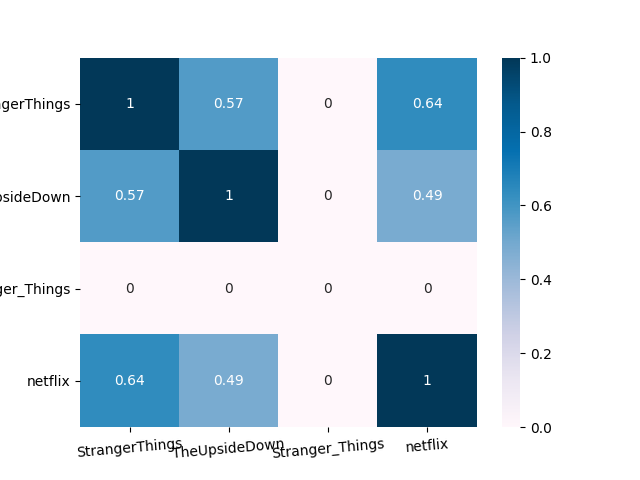
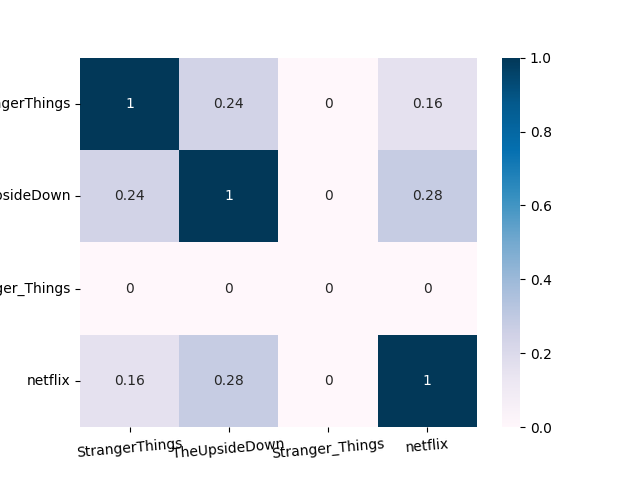
migrate to python3. Including dependency packages and syntax.

diff --git a/get_reddit_data.py b/get_reddit_data.py
@@ -9,11 +9,10 @@ import sys
 import time
 from datetime import datetime
 from create_table import *
-from multiprocessing.dummy import Pool
 
-
-HOT_CNT = 100
-COMMENTS_THRESHOLD = 500
+HOT_CNT = 50
+# the smaller, the faster, but with less prediction accuracy
+COMMENTS_THRESHOLD = 50
 
 old_time = time.time()
 
@@ -30,7 +29,7 @@ reddit = praw.Reddit(client_id='qrbjP0JQu3Uo1Q',
                      user_agent = 'doe nlp usage', # user_agent is just a description
                      username='sisyphus_bot',
                      password='Sympler1~') 
-print("I am reddit bot {0}".format(reddit.user.me()))
+print(("I am reddit bot {0}".format(reddit.user.me())))
 
 
 # chosen_subreddits = [ 'Fitness', 'java', 'python','datascience', 'MachineLearning']
@@ -38,7 +37,7 @@ chosen_subreddits = ['StrangerThings', 'TheUpsideDown', 'Stranger_Things', 'netf
 for i in range(len(chosen_subreddits)):
     subreddit = reddit.subreddit(chosen_subreddits[i])
     db_tuple = (subreddit.id, chosen_subreddits[i], subreddit.title, int(subreddit.created), 0)
-    print db_tuple
+    print (db_tuple)
     sql_query = """INSERT INTO main_subreddits VALUES (%s, %s, %s, %s, %s)"""
     cur.execute(sql_query, db_tuple) # use tuple to insert
 
@@ -50,8 +49,8 @@ pull_df = pd.read_sql("SELECT * FROM main_subreddits", con) # <clddlass 'pandas.
 # Parse subreddits-->submissions-->comments and save to SQL
 for i in range(pull_df.shape[0]):
     t_start = time.time()
-    print ("Subreddit " + str(i + 1) + " / " + 
-    	   str(pull_df.shape[0]) + ": " + pull_df['title'][i])
+    print(("Subreddit " + str(i + 1) + " / " + 
+    	   str(pull_df.shape[0]) + ": " + pull_df['title'][i]))
     # deal with subreddit
     subreddit = reddit.subreddit(pull_df['name'][i])
     subreddit_id = pull_df['id'][i]
@@ -60,7 +59,7 @@ for i in range(pull_df.shape[0]):
     # deal with submissions
     for submission in subreddit.hot(limit=HOT_CNT): # this step connects the internet?
         submissions_cnt += 1
-        submission.comments.replace_more(limit = 0); # For deep comments
+        submission.comments.replace_more(limit = 0) # For deep comments
         submission_tuple = (submission.id, subreddit_id, submission.selftext, int(submission.created))
         submission_query =  "INSERT INTO main_submissions VALUES (%s, %s, %s, %s)"
         cur.execute(submission_query, submission_tuple)
@@ -68,10 +67,10 @@ for i in range(pull_df.shape[0]):
         comment_tuples = []
         comment_list = submission.comments.list()
         for comment in comment_list:
-            comment_tuples.append((comment.id , subreddit_id, 
-            					   submission.id, comment.body))
-        if len(comment_tuples) > 0: # smart, insert in one sentense
-            comment_str = ','.join(cur.mogrify("(%s,%s,%s,%s)", x) for x in comment_tuples)
+            comment_tuples.append((comment.id , subreddit_id,
+            					   submission.id, str(comment.body)))
+        if len(comment_tuples) > 0:
+            comment_str = b','.join(cur.mogrify("(%s,%s,%s,%s)", x) for x in comment_tuples).decode()
             cur.execute("INSERT INTO main_comments VALUES " + comment_str)
 
         comment_count += len(comment_list)
@@ -80,18 +79,18 @@ for i in range(pull_df.shape[0]):
         sys.stdout.flush()
         if comment_count > COMMENTS_THRESHOLD: break
     
-    print '  Runtime: ' + str(int(time.time() - t_start)) + "s"
-    print '-' * 50
+    print(('  Runtime: ' + str(int(time.time() - t_start)) + "s"))
+    print(('-' * 50))
 
 #Check the total amount of submissions and comments downloaded. It's rolling.
 all_comments = pd.read_sql("SELECT * FROM main_comments", con)
 all_submissions = pd.read_sql("SELECT * FROM main_submissions", con)
-print "Total number of comments downloaded:", all_comments.shape[0]
-print "Total number of submissions downloaded:", all_submissions.shape[0]
+print(("Total number of comments downloaded:", all_comments.shape[0]))
+print(("Total number of submissions downloaded:", all_submissions.shape[0]))
 
 
 con.commit()
 cur.close()
 con.close()
 
-print 'Runtime: ' + str(int(time.time() - old_time)) + "s"
+print(('Runtime: ' + str(int(time.time() - old_time)) + "s"))

diff --git a/submissions_analysis.py b/submissions_analysis.py
@@ -25,7 +25,6 @@ import re
 import numpy as np
 import nltk
 import matplotlib
-matplotlib.use('TkAgg')
 import matplotlib.pyplot as plt
 import time
 
@@ -97,9 +96,9 @@ def gen_data(all_subreddits):
 		# create lookup table --> submission_id : time
 		submission_query = "SELECT id, created FROM main_submissions WHERE subreddit_id = '%s'" % subreddit_id
 		submission_frame = pd.read_sql(submission_query, con)
-		submission_time_lookup.update(dict(zip(submission_frame.id, submission_frame.created)))
+		submission_time_lookup.update(dict(list(zip(submission_frame.id, submission_frame.created))))
 	if DEBUG == 2:
-		print "data keys: ", data.keys()
+		print("data keys: ", list(data.keys()))
 	return data, submission_time_lookup
 
 def gen_docs(data, docs, submissions, 
@@ -113,9 +112,9 @@ def gen_docs(data, docs, submissions,
 	four layers: subreddit --> submission --> comments --> token
 	'''
 	if DEBUG == 2:
-		print "submission id and length relations:"
-	for subreddit, inner in data.items():
-		for submission_id, comments in inner.items():
+		print("submission id and length relations:")
+	for subreddit, inner in list(data.items()):
+		for submission_id, comments in list(inner.items()):
 			tokens_stemed = []
 			for comment in comments:
 				tokens = WordPunctTokenizer().tokenize(comment)
@@ -139,7 +138,7 @@ def gen_docs(data, docs, submissions,
 										if alpha_filter(t) and t.lower() not in stopwords]) 
 			# vocab.extend(gen_vocabulary(tokens_stemed, VOCAB_CNT))
 			if DEBUG == 2:
-				print "{0} has {1} tokens".format(submission_id, len(tokens_stemed))
+				print("{0} has {1} tokens".format(submission_id, len(tokens_stemed)))
 			submissions.append((submission_id, len(tokens_stemed)))
 			docs.append(" ".join(tokens_stemed))
 
@@ -153,7 +152,7 @@ def addon_docs(submission_time_lookup, QUESTION):
 	submission_time_lookup[0] = int(time.time())
 	gen_docs(add_on, docs, submissions)
 	if DEBUG == 2:
-		print 'there are {0} submissions and {1} docs\n'.format(len(submissions), len(docs))
+		print('there are {0} submissions and {1} docs\n'.format(len(submissions), len(docs)))
 
 def gen_stats(docs):
 	'''
@@ -185,22 +184,22 @@ def match(stats, QUESTION):
 	print ("|---id---|-length-|--score-|---time-------|--url------------")
 	if DEBUG:
 		for i in nlp_related:
-			print i + ['url: redd.it/{0}'.format(i[0])]
-		print "+++++finished select nlp score\++++++\n"
+			print(i + ['url: redd.it/{0}'.format(i[0])])
+		print("+++++finished select nlp score\++++++\n")
 	length_related = sorted(nlp_related, key = lambda x: -int(x[1]))[:LENGTH_CRITERIA]
 	if DEBUG:
 		for i in length_related:
-			print i + ['url: redd.it/{0}'.format(i[0])]
-		print "+++++finished select length+++++\n"
+			print(i + ['url: redd.it/{0}'.format(i[0])])
+		print("+++++finished select length+++++\n")
 	time_related = sorted(length_related, key = lambda x: -int(x[-1]))[:TIME_CRITERIA]
 	if DEBUG:	
 		for i in time_related:
-			print i + ['url: redd.it/{0}'.format(i[0])]
-		print "+++++finished select time+++++\n"
+			print(i + ['url: redd.it/{0}'.format(i[0])])
+		print("+++++finished select time+++++\n")
 
-	print "Final match id for question: {0}".format(QUESTION)
+	print("Final match id for question: {0}".format(QUESTION))
 	for i in time_related:
-		print "redd.it/{0}".format(i[0])
+		print("redd.it/{0}".format(i[0]))
 
 
 
@@ -218,11 +217,11 @@ if __name__ == '__main__':
 	gen_docs(data, docs, submissions)
 
 	for i,q in enumerate(QUESTIONS):
-		print 'Question {0}: {1}'.format(i+1,q)
+		print('Question {0}: {1}'.format(i+1,q))
 		addon_docs(submission_time_lookup, q)
 		# genetate stats and output the final match!
 		stats = gen_stats(docs)
 		match(stats, q)
 		docs.pop() # pop the last doc(question) and prepare for the next one 
-		print 'Runtime till now: ' + str(int(time.time() - OLD_TIME)) + "s"
-		print '\n\n\n\n'
+		print('Runtime till now: ' + str(int(time.time() - OLD_TIME)) + "s")
+		print('\n\n\n\n')

diff --git a/tensorflow_analysis/tensorflow_test.py b/tensorflow_analysis/tensorflow_test.py
@@ -24,6 +24,8 @@ from nltk.tokenize import WordPunctTokenizer
 from sklearn.feature_extraction.text import TfidfVectorizer
 from collections import Counter
 from sklearn.datasets import fetch_20newsgroups
+import tensorflow.compat.v1 as tf
+tf.disable_v2_behavior()
 
 # preprocess and experiments parameters
 os.environ['TF_CPP_MIN_LOG_LEVEL']='2' # cut off the trivial warning
@@ -76,7 +78,7 @@ def gen_vocab(data1, data2):
 	# freq = Counter(vocab)
 	vocab = set(vocab)
 	total_words = len(vocab)
-	print "vocabulary size: ",len(vocab) # nearly 20k vocab
+	print("vocabulary size: ",len(vocab)) # nearly 20k vocab
 	return vocab, total_words
 
 def get_word_2_index(vocab):
@@ -152,7 +154,7 @@ class DataManager(object):
 
 def main():
 	################## non tf part #################
-	print "\nlet's roll"
+	print("\nlet's roll")
 	old_time = time.time() 
 	# load sklearn text data
 	categories = ["comp.graphics","sci.space","rec.sport.baseball"]
@@ -160,8 +162,8 @@ def main():
 	newsgroups_test = fetch_20newsgroups(subset='test', categories=categories) #  <class 'sklearn.utils.Bunch'>
 	train_data, train_target = newsgroups_train.data[:data_cnt], newsgroups_train.target[:data_cnt]
 	test_data, test_target = newsgroups_test.data[:data_cnt], newsgroups_test.target[:data_cnt]
-	print 'total texts in train:',len(train_data)
-	print 'total texts in test:',len(test_data)
+	print('total texts in train:',len(train_data))
+	print('total texts in test:',len(test_data))
 	# gen vocab, total_words and worddict
 	vocab, total_words = gen_vocab(train_data, test_data)
 	word2index = get_word_2_index(vocab)
@@ -233,10 +235,10 @@ def main():
 
 				# Display logs per epoch step
 				if epoch % display_step == 0:
-					print "Epoch:", '%04d' % (epoch+1), "loss=", \
-						"{:.9f}".format(avg_cost)
-			print "Optimization Finished!"
-		print 'Runtime: ' + str(int(time.time() - old_time)) + "s"	
+					print("Epoch:", '%04d' % (epoch+1), "loss=", \
+						"{:.9f}".format(avg_cost))
+			print("Optimization Finished!")
+		print('Runtime: ' + str(int(time.time() - old_time)) + "s")	
 
 if __name__ == "__main__":
 	main()

diff --git a/subreddits_analysis.py b/subreddits_analysis.py
@@ -61,7 +61,7 @@ for i, subreddit_id in enumerate(all_subreddits):
 # stemmer and filter stop words, build vocabulary
 lancaster = nltk.LancasterStemmer() # apply lancaster stemmer
 stopwords = stopwords.words('english') # 153 stop words. a list.
-for subreddit, subreddit_comments in subreddit_to_comment_tokens_dict.items():
+for subreddit, subreddit_comments in list(subreddit_to_comment_tokens_dict.items()):
 	tokens_stemed = []
 	for comment in subreddit_comments:
 		tokens = WordPunctTokenizer().tokenize(comment)
@@ -86,15 +86,15 @@ docs = [subreddit_to_comment_tokens_dict[subreddit] for subreddit in chosen_subr
 tfidf_matrix = vect.fit_transform(docs) # <class 'scipy.sparse.csr.csr_matrix'>
 # print tfidf_matrix.shape to see the shape of the matrix
 
-print "chosen subreddits: ", chosen_subreddits
+print(("chosen subreddits: ", chosen_subreddits))
 x = (tfidf_matrix * tfidf_matrix.T).A # numpy.darray. class object multiplication. implies the cos similarity: one doc tfidf vector cosine another one
 df = pd.DataFrame(x, columns=chosen_subreddits, index=chosen_subreddits)
 
 # draw figure
 import seaborn as sns
 sns.heatmap(df, annot = True, cmap='PuBu') # cmap means color mapping
-print df
+print(df)
 plt.xticks(rotation = 5)
-print 'Runtime: ' + str(int(time.time() - old_time)) + "s"
+print('Runtime: ' + str(int(time.time() - old_time)) + "s")
 plt.savefig('./subreddits_analysis_result.png')
 

diff --git a/drop_tables.py b/drop_tables.py
@@ -17,8 +17,8 @@ from db_connect import *
 cur.execute("SELECT table_schema,table_name FROM information_schema.tables WHERE table_schema = 'public' ORDER BY table_schema,table_name")
 rows = cur.fetchall()
 for row in rows:
-    print "dropping table:", row[1]   
+    print("dropping table:", row[1])   
     cur.execute("drop table " + row[1] + " cascade") 
-    print "finish one"   
+    print("finish one")   
 cur.close()
 con.commit()

diff --git a/db_connect.py b/db_connect.py
@@ -9,6 +9,6 @@ try:
 	print ("starting to connect......")
 	con = psycopg2.connect(database="testdb", user="postgres", password="pass123", host="127.0.0.1", port="5432")
 	cur = con.cursor()
-	print ("Databse connected!")
-except Exception, err:
-	print err
+	print ("Database connected!")
+except Exception as err:
+	print(err)
